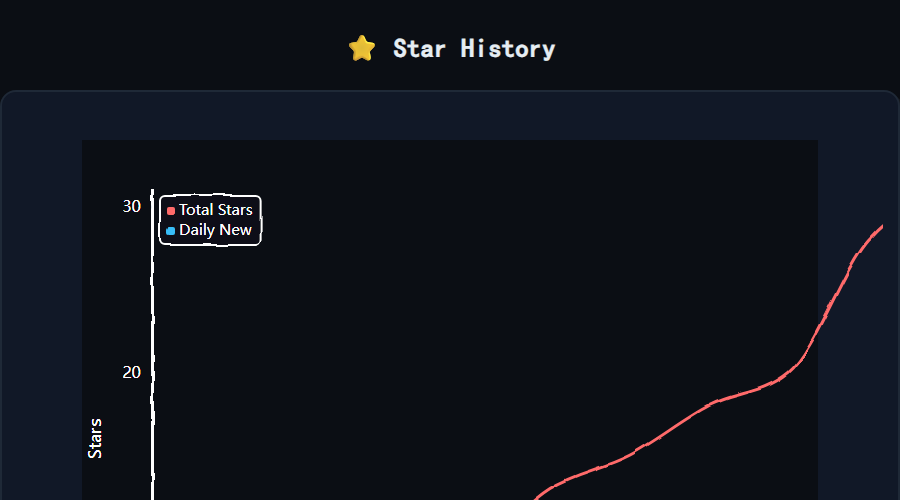
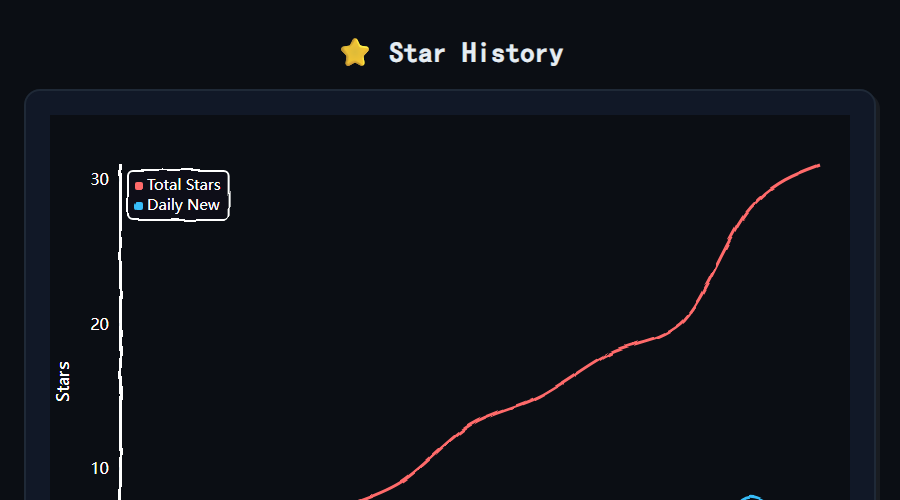
第一性原理重构 Star History：页面与卡片解耦，图表独占固定高度容器，统计区网格独立，手绘风格与数据分离，确保视口完整无裁切

diff --git a/docs/star-history.html b/docs/star-history.html
@@ -8,79 +8,52 @@
 <style>
 @import url('"https://fonts.googleapis.com/css2?family=Patrick+Hand&display=swap"');
 :root{--bg:#0b0e14;--fg:#e6edf3;--muted:#9aa3b2;--border:#1f2937;--card:#111827}
-*{box-sizing:border-box}body{margin:0;font-family:"Patrick Hand",cursive;background:var(--bg);color:var(--fg);line-height:1.6}
-header{max-width:1200px;margin:0 auto;padding:28px 24px 0;text-align:center}h1{margin:0;font-size:26px;letter-spacing:0.02em}
-.card{max-width:1200px;margin:20px auto;padding:48px 80px 36px 80px;background:var(--card);border:2px solid var(--border);border-radius:16px;box-shadow:4px 4px 0 rgba(255,255,255,0.05);overflow:visible}
-svg{width:100%!important;height:auto!important;display:block;overflow:visible}
-.stats{display:flex;gap:14px;flex-wrap:wrap;margin-top:18px;font-family:"Patrick Hand",cursive}
-.stat{flex:1 1 160px;background:var(--bg);border:2.5px solid var(--border);border-radius:14px;padding:14px;text-align:center;transform:rotate(-0.2deg);box-shadow:2px 2px 0 rgba(255,255,255,0.04)}
-.stat:nth-child(even){transform:rotate(0.3deg)}
-.stat b{font-size:22px;display:block;font-family:"Patrick Hand",cursive}.stat span{color:var(--muted);font-size:12px}
-.note{max-width:900px;margin:0 auto;padding:0 20px 28px;color:var(--muted);font-size:12px;text-align:center;font-family:-apple-system,BlinkMacSystemFont,"Segoe UI",Helvetica,Arial,sans-serif}a{color:#a78bfa;text-decoration:none}a:hover{text-decoration:underline}
+*{box-sizing:border-box}html,body{margin:0;padding:0;background:var(--bg);color:var(--fg);font-family:"Patrick Hand",cursive}
+.page{max-width:960px;margin:0 auto;padding:32px 24px 40px}
+.hd{text-align:center;margin-bottom:20px}h1{margin:0;font-size:28px;letter-spacing:0.02em}
+.card{background:var(--card);border:2.5px solid var(--border);border-radius:16px;padding:24px;box-shadow:4px 4px 0 rgba(255,255,255,0.06)}
+.chart-wrap{position:relative;width:100%;height:420px}
+.chart-wrap svg{width:100%!important;height:100%!important;display:block}
+.stats{display:grid;grid-template-columns:repeat(4,1fr);gap:14px;margin-top:22px}
+@media(max-width:640px){.stats{grid-template-columns:repeat(2,1fr)}}
+.stat{background:var(--bg);border:2.5px solid var(--border);border-radius:12px;padding:14px;text-align:center;transform:rotate(-0.15deg)}
+.stat:nth-child(2){transform:rotate(0.2deg)}
+.stat:nth-child(3){transform:rotate(-0.1deg)}
+.stat:nth-child(4){transform:rotate(0.15deg)}
+.stat b{font-size:22px;display:block}
+.stat span{color:var(--muted);font-size:12px;font-family:-apple-system,BlinkMacSystemFont,"Segoe UI",Helvetica,Arial,sans-serif}
 </style>
 </head>
 <body>
-<header>
-<h1>⭐ Star History</h1>
-</header>
+<div class="page">
+<div class="hd"><h1>⭐ Star History</h1></div>
 <div class="card">
-<svg id="chart"></svg>
+<div class="chart-wrap"><svg id="chart"></svg></div>
 <div class="stats" id="stats"></div>
+</div>
 </div>
 <script>
 async function load(){
-  let data = null;
-  const urls = [new URL("star-history.json", location.href).href, "https://featherhunter.github.io/dsh-mattpocock-skills-deck/star-history.json", "https://raw.githubusercontent.com/FeatherHunter/dsh-mattpocock-skills-deck/main/docs/star-history.json"];
-  for (const url of urls) { try { const res = await fetch(url, {cache:"no-store"}); if (!res.ok) continue; const j = await res.json(); if (Array.isArray(j) && j.length) { data = j; break; } } catch(e) {} }
-  if (!data) throw new Error("star-history.json not found");
-  if(!Array.isArray(data) || data.length===0){
-    document.querySelector("#chart").outerHTML = "<p style=color:var(--muted);text-align:center;padding:40px>暂无数据</p>";
-    return;
-  }
-  const labels = data.map(d=>d.date.slice(5).replace("-","/"));
-  const totals = data.map(d=>d.total);
-  const dailys = data.map(d=>d.daily);
-  const last = data[data.length-1];
-  const maxDaily = Math.max(...dailys);
-  const avgDaily = (dailys.reduce((a,b)=>a+b,0)/dailys.length).toFixed(1);
-  document.getElementById("stats").innerHTML = `<div class=stat><b>${last.total}</b><span>当前 Stars</span></div><div class=stat><b>${maxDaily}</b><span>单日峰值</span></div><div class=stat><b>${avgDaily}</b><span>日均新增</span></div><div class=stat><b>${data.length}</b><span>有星之日</span></div>`;
-  const svg = document.getElementById("chart");
-  // Fix crowding: show every other date, more right margin via chart padding
-  const tickCount = Math.min(4, Math.max(3, Math.ceil(labels.length / 3)));
-  new chartXkcd.Line(svg, {
-    title: "",
-    xLabel: "Date",
-    yLabel: "Stars",
-    data: {
-      labels,
-      datasets: [
-        { label: "Total Stars", data: totals },
-        { label: "Daily New", data: dailys }
-      ]
-    },
-    options: {
-      xTickCount: tickCount,
-      yTickCount: 4,
-      legendPosition: chartXkcd.config.positionType.upLeft,
-      showLine: true,
-      timeFormat: "MM/DD",
-      dotSize: 0.5,
-      strokeColor: "white",
-      backgroundColor: "#0b0e14",
-      dataColors: ["#ff6b6b", "#38bdf8"],
-      fontFamily: "Patrick Hand"
-    }
+  let data=null;
+  const urls=[new URL("star-history.json",location.href).href,"https://featherhunter.github.io/dsh-mattpocock-skills-deck/star-history.json","https://raw.githubusercontent.com/FeatherHunter/dsh-mattpocock-skills-deck/main/docs/star-history.json"];
+  for(const url of urls){try{const r=await fetch(url,{cache:"no-store"});if(!r.ok)continue;const j=await r.json();if(Array.isArray(j)&&j.length){data=j;break;}}catch(e){}}
+  if(!data) throw new Error("star-history.json not found");
+  const labels=data.map(d=>d.date.slice(5).replace("-","/"));
+  const totals=data.map(d=>d.total);
+  const dailys=data.map(d=>d.daily);
+  const last=data[data.length-1];
+  const maxDaily=Math.max(...dailys);
+  const avg=(dailys.reduce((a,b)=>a+b,0)/dailys.length).toFixed(1);
+  document.getElementById("stats").innerHTML=`<div class=stat><b>${last.total}</b><span>当前 Stars</span></div><div class=stat><b>${maxDaily}</b><span>单日峰值</span></div><div class=stat><b>${avg}</b><span>日均新增</span></div><div class=stat><b>${data.length}</b><span>有星之日</span></div>`;
+  const svg=document.getElementById("chart");
+  new chartXkcd.Line(svg,{
+    xLabel:"Date",
+    yLabel:"Stars",
+    data:{labels,datasets:[{label:"Total Stars",data:totals},{label:"Daily New",data:dailys}]},
+    options:{xTickCount:Math.min(5,Math.max(3,Math.ceil(labels.length/3))),yTickCount:4,legendPosition:chartXkcd.config.positionType.upLeft,showLine:true,dotSize:0.5,strokeColor:"white",backgroundColor:"#0b0e14",dataColors:["#ff6b6b","#38bdf8"],fontFamily:"Patrick Hand",unxkcdify:false}
   });
-  // Ensure SVG scales without clipping on small screens
-  svg.style.width = "100%";
-  svg.style.height = "auto";
-  svg.setAttribute("preserveAspectRatio", "xMidYMid meet");
 }
-load().catch(e=>{ document.querySelector("#chart").outerHTML = "<p style=color:#ef4444;text-align:center;padding:40px>加载失败："+e.message+"</p>"; });
+load().catch(e=>{document.getElementById("chart").outerHTML=`<p style="color:#ef4444;text-align:center;padding:40px">加载失败：${e.message}</p>`});
 </script>
 </body>
 </html>
-
-
-
-
